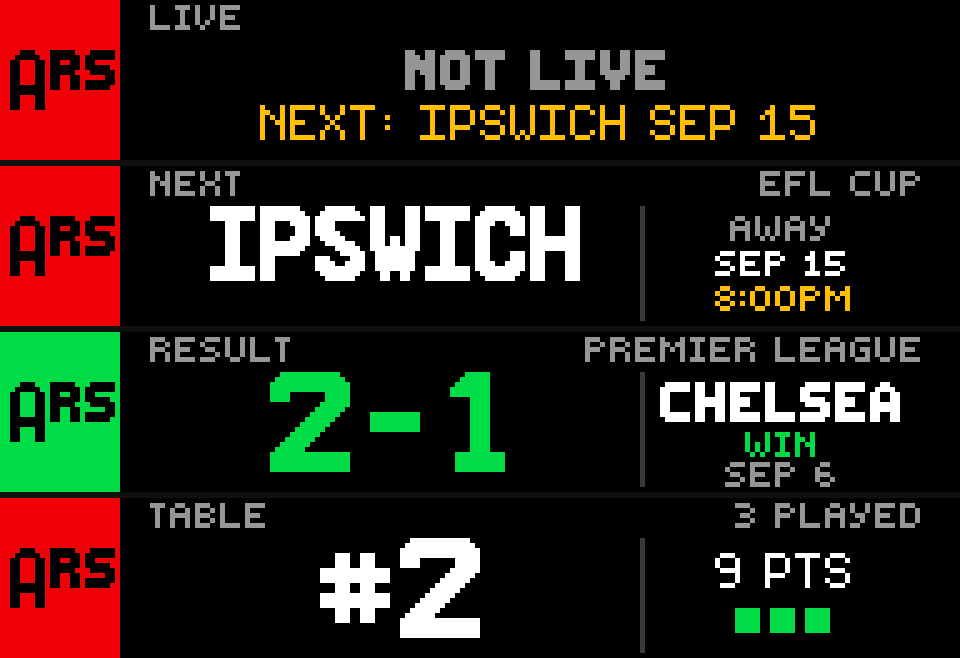
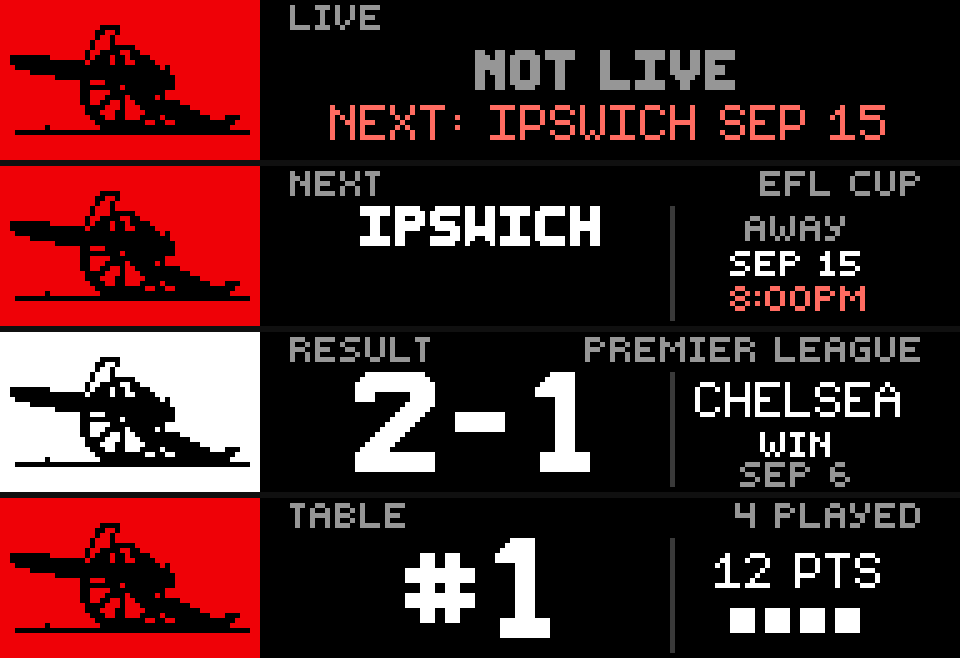
Real Arsenal crest, left-gutter classic layout, red/white/black palette
- Replace the ARS wordmark with Arsenal's actual 1921-22 club crest
  (public domain -- see README.md in each app folder for provenance and
  why the modern shield crest doesn't survive panel resolution). 20x9 on
  the classic build's gutter, 48x22 on the scroll build's badge zone.
- Redesign apps/arsenal-fc (64px): logo moves from a top header band to
  a left-edge gutter, full 32px tall, with data stacked in the remaining
  ~37px content zone -- frees more vertical room than the old header
  band and puts the real crest at a legible size.
- Widen apps/arsenal-fc-scroll's badge zone (24px -> 52px) so the real
  crest has room to read; shifted content zones to match.
- Strict Arsenal palette across both builds: no green, no amber/gold.
  Win/draw/home/live use white or a lighter red tint; loss stays bold
  red. (The offline no-data card keeps the platform-wide amber
  convention shared by the rest of the GDN catalog.)
- Fixed several hard-clip overflows the narrower classic content zone
  exposed (state-card copy, NEXT page's date/time line) by shortening
  copy and repacking the vertical rhythm.

diff --git a/apps/arsenal-fc-scroll/README.md b/apps/arsenal-fc-scroll/README.md
@@ -1,0 +1,29 @@
+# Arsenal FC
+
+## cannon.png provenance
+
+`assets/cannon.png` is derived from **Arsenal F.C.'s own 1921–22 club crest**
+— "the crest is a westward pointing single cannon," adopted for one season
+and then replaced. It is in the public domain (published before 1931; see
+the file's own licensing block) and is documented as uncopyrighted by
+Arsenal's own crest history:
+
+- Source: https://commons.wikimedia.org/wiki/File:Arsenal_F.C._Crest_1921%E2%80%931922.png
+- Citing: https://www.arsenal.com/news/news-archive/the-arsenal-crest
+
+The original is a detailed line illustration; at this panel's pixel budget
+it was thresholded to pure black/white and reduced to 48x22 px
+(majority-vote per cell, no anti-aliasing, no interpolation) so it draws as
+clean pixel art rather than a blurred photo — 48px wide is roughly the
+minimum where the wheel spokes and barrel stay legible. The modern shield
+crest (with the "Arsenal" wordmark, gold trim, and three colored panels)
+was tried first and does not survive reduction to panel resolution — it
+becomes an unreadable smear even at 24x24px — which is why this simpler,
+single-element historical crest was used instead. The 64px classic build
+(`apps/arsenal-fc`) only has room for a much smaller ~20px rendition of the
+same source, which reads as a rougher silhouette than this one.
+
+Wikimedia's file page notes that although the image itself is out of
+copyright, "this image shows ... an official insignia" and related
+trademark rights are independent of copyright status and vary by
+jurisdiction.

diff --git a/apps/arsenal-fc/README.md b/apps/arsenal-fc/README.md
@@ -1,0 +1,26 @@
+# Arsenal FC
+
+## cannon.png provenance
+
+`assets/cannon.png` is derived from **Arsenal F.C.'s own 1921–22 club crest**
+— "the crest is a westward pointing single cannon," adopted for one season
+and then replaced. It is in the public domain (published before 1931; see
+the file's own licensing block) and is documented as uncopyrighted by
+Arsenal's own crest history:
+
+- Source: https://commons.wikimedia.org/wiki/File:Arsenal_F.C._Crest_1921%E2%80%931922.png
+- Citing: https://www.arsenal.com/news/news-archive/the-arsenal-crest
+
+The original is a detailed line illustration; at this panel's pixel budget
+it was thresholded to pure black/white and reduced to 20x9 px (majority-vote
+per cell, no anti-aliasing, no interpolation) so it draws as clean pixel art
+rather than a blurred photo. The modern shield crest (with the "Arsenal"
+wordmark, gold trim, and three colored panels) was tried first and does not
+survive reduction to panel resolution — it becomes an unreadable smear even
+at 24x24px — which is why this simpler, single-element historical crest was
+used instead.
+
+Wikimedia's file page notes that although the image itself is out of
+copyright, "this image shows ... an official insignia" and related
+trademark rights are independent of copyright status and vary by
+jurisdiction.
